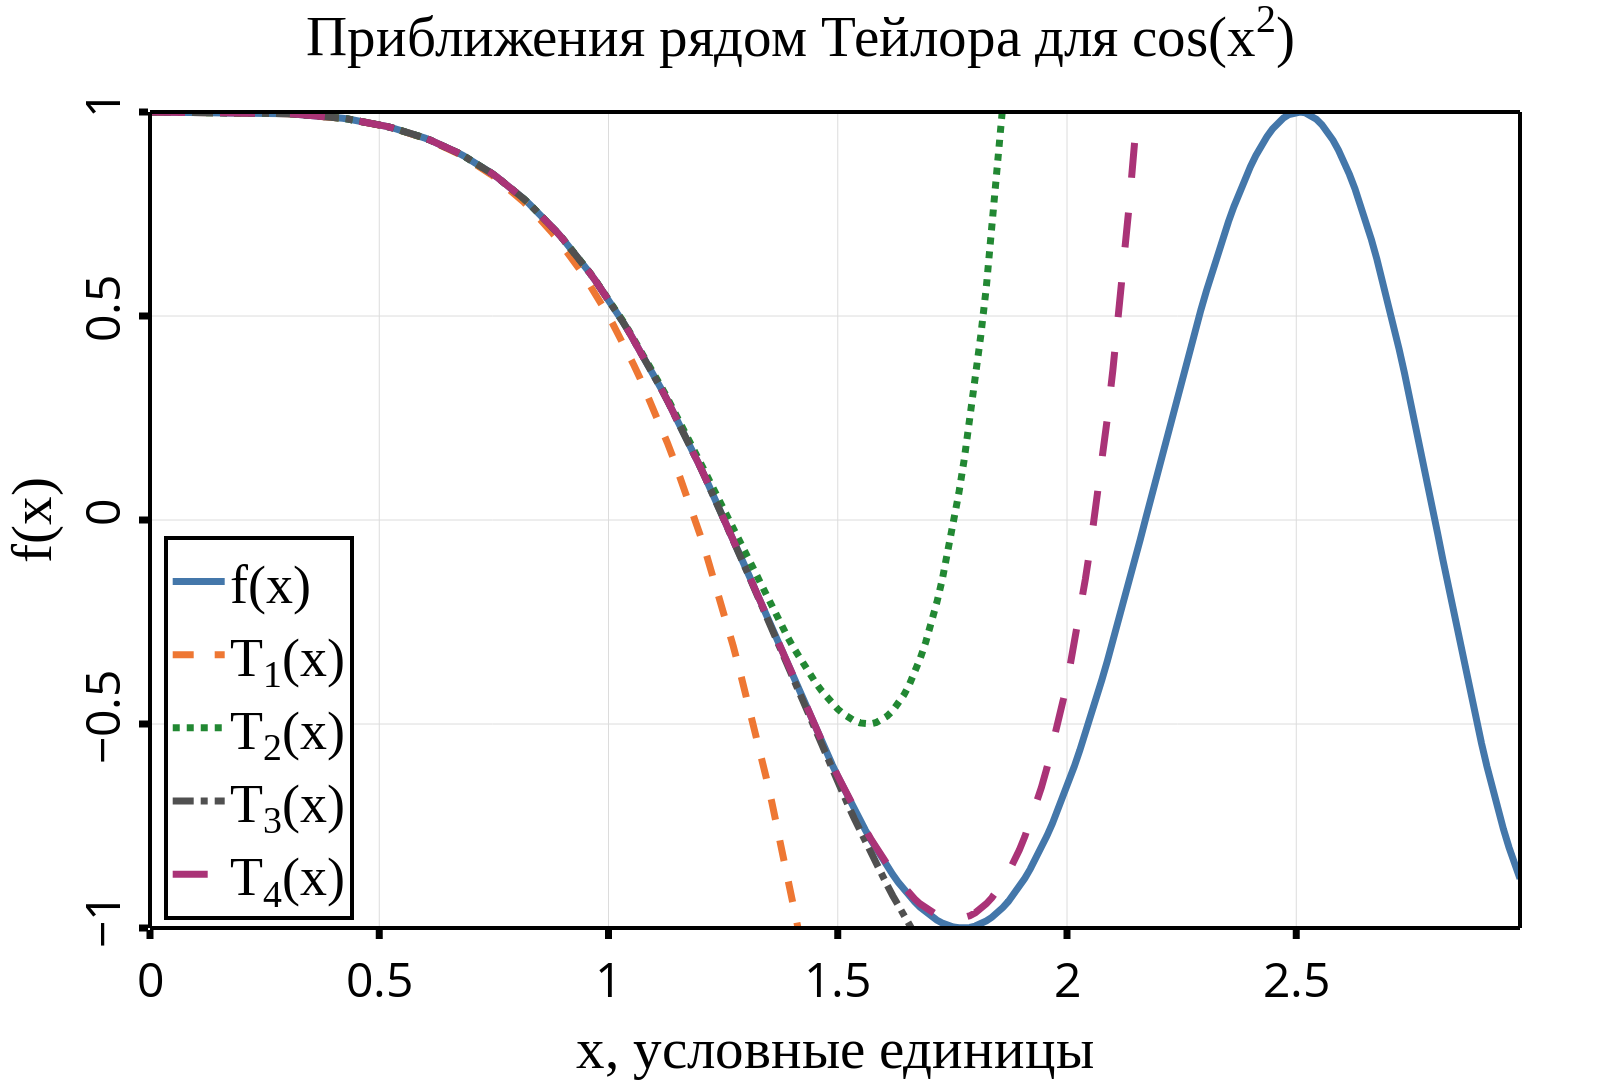
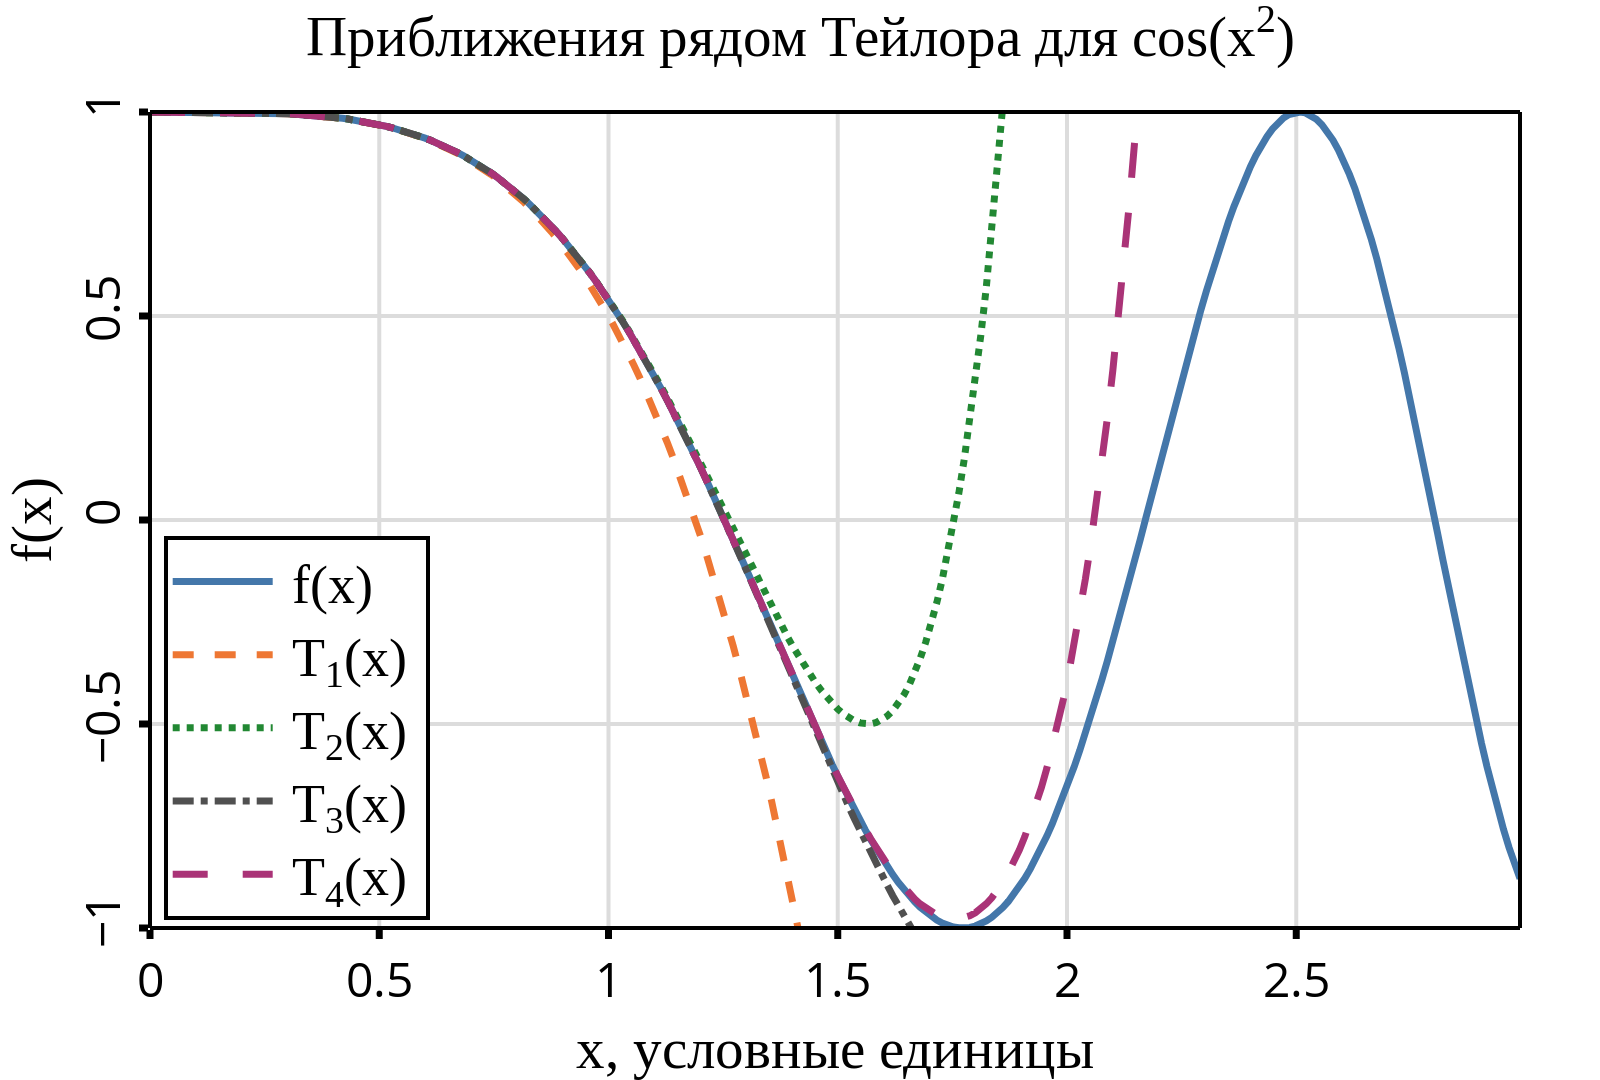
Legend fixes

diff --git a/best/src/plot.rs b/best/src/plot.rs
@@ -44,6 +44,7 @@ pub struct PlotPar{
     pub font_scale: f64,
     pub line_scale: f64,
     pub font_family: String,
+    pub show_grid: bool,
 }
 
 impl PlotPar{
@@ -70,6 +71,7 @@ impl PlotPar{
             font_scale: 1.0,
             line_scale: 1.0,
             font_family: format!("Serif"),
+            show_grid: true,
         }
     }
 }
@@ -194,7 +196,7 @@ pub fn line_plot(x: &Vec<Vec<f64>>, y: &Vec<Vec<f64>>, plot_par: &PlotPar) {
         .border_width(thick)
         .border_color(forecol)
         .background_color(bgcol)
-        .item_width(52)
+        .item_width(100)
         .item_sizing(ItemSizing::Trace);
 
     let axis = Axis::new()
@@ -207,7 +209,7 @@ pub fn line_plot(x: &Vec<Vec<f64>>, y: &Vec<Vec<f64>>, plot_par: &PlotPar) {
         .tick_color(forecol)
         .tick_font(Font::new().color(forecol))
         .zero_line(false)
-        .show_grid(true)
+        .show_grid(true).grid_width(thick)
         .grid_color(gridcol).auto_margin(true);
 
     let mut axisx = axis.clone().title(
@@ -276,6 +278,8 @@ pub fn line_plot(x: &Vec<Vec<f64>>, y: &Vec<Vec<f64>>, plot_par: &PlotPar) {
 
     layout.add_shape(line_top);
     layout.add_shape(line_right);
+    // Here's how to fix legend
+    //layout.add_shape(Shape::new().shape_type(ShapeType::Rect));
 
     let mut plot = Plot::new();
 

diff --git a/best/src/main.rs b/best/src/main.rs
@@ -23,11 +23,11 @@ fn main() {
         &title, 
         &flnm,
         vec![
-            format!("f(x)"), 
-            format!("T<sub>1</sup>(x)"),
-            format!("T<sub>2</sup>(x)"),
-            format!("T<sub>3</sup>(x)"),
-            format!("T<sub>4</sup>(x)"),
+            format!(" f(x)"), 
+            format!(" T<sub>1</sup>(x) "),
+            format!(" T<sub>2</sup>(x) "),
+            format!(" T<sub>3</sup>(x) "),
+            format!(" T<sub>4</sup>(x) "),
         ],
     );
     // change legend alignments or plotting mode
